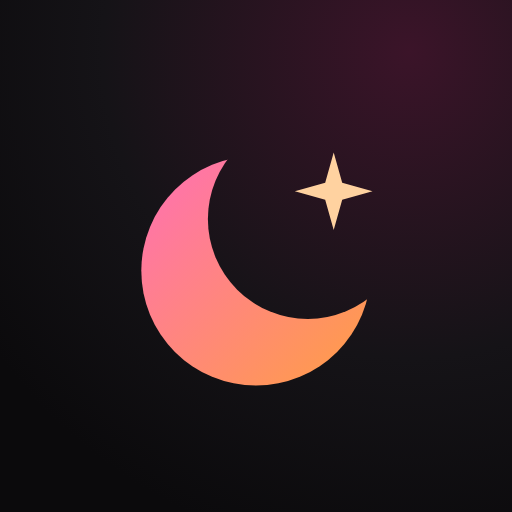
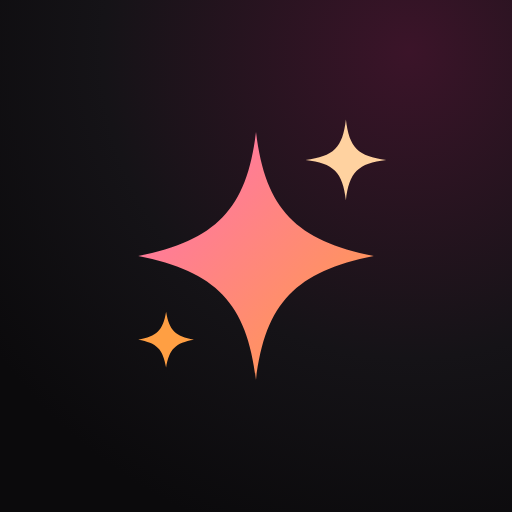
La app pasa a llamarse Todo en Orden con logotipo de destello; sin zoom por doble toque
Claude-Session: https://claude.ai/code/session_01DeS98x6oqMjMK33PFMtxsf

Changed region(s): [[0.25, 0.2812, 0.7188, 0.75], [0.5938, 0.25, 0.75, 0.4375]]

diff --git a/index.html b/index.html
@@ -8,8 +8,8 @@
 <meta name="referrer" content="no-referrer">
 <meta name="apple-mobile-web-app-capable" content="yes">
 <meta name="mobile-web-app-capable" content="yes">
-<meta name="apple-mobile-web-app-title" content="Mi Espacio">
-<title>Mi Espacio</title>
+<meta name="apple-mobile-web-app-title" content="Todo en Orden">
+<title>Todo en Orden</title>
 <link rel="manifest" href="manifest.json">
 <link rel="icon" href="icon.svg" type="image/svg+xml">
 <link rel="apple-touch-icon" href="icon-180.png">
@@ -77,7 +77,7 @@ body[data-tab="work"]{--sec:var(--s-work);--sec-ink:var(--i-work)}
 body[data-tab="money"]{--sec:var(--s-money);--sec-ink:var(--i-money)}
 body[data-tab="shop"]{--sec:var(--s-shop);--sec-ink:var(--i-shop)}
 *{box-sizing:border-box;-webkit-tap-highlight-color:transparent}
-html{-webkit-text-size-adjust:100%}
+html{touch-action:manipulation;-webkit-text-size-adjust:100%}
 body{margin:0;font-family:var(--f-body);background:var(--bg);color:var(--ink);font-size:16px;line-height:1.5}
 h1,h2,h3{font-family:var(--f-display);font-weight:600;margin:0;line-height:1.15;text-wrap:balance}
 p{margin:0}
@@ -344,8 +344,10 @@ fieldset.f legend{display:block;font-size:.88rem;font-weight:700;color:var(--mut
 #sres{margin-top:6px}
 #lock{position:fixed;inset:0;z-index:200;background:radial-gradient(700px 420px at 50% 0%,color-mix(in srgb,var(--brand) 22%,transparent),transparent 70%),var(--bg);display:grid;place-items:center;padding:24px}
 #lock[hidden]{display:none}
+#lock,#lock *{touch-action:manipulation;-webkit-user-select:none;user-select:none;-webkit-touch-callout:none}
 .lock-in{width:min(100%,320px);display:flex;flex-direction:column;align-items:center;gap:14px;text-align:center}
-.lock-in svg.logo{width:64px;height:64px}
+.lock-in svg.logo{width:72px;height:72px}
+@media (max-width:420px){.brand{font-size:1.3rem;gap:8px}.brand svg.logo{width:30px;height:30px}}
 .lock-in h2{font-size:2rem}
 .lockdots{display:flex;gap:14px;min-height:20px}
 .lockdots i{width:14px;height:14px;border-radius:50%;border:2px solid var(--muted)}
@@ -359,12 +361,11 @@ fieldset.f legend{display:block;font-size:.88rem;font-weight:700;color:var(--mut
 <body>
 <svg width="0" height="0" style="position:absolute" aria-hidden="true" focusable="false"><defs>
 <linearGradient id="lg" x1="0" y1="0" x2="1" y2="1"><stop offset="0" stop-color="#ff6fb5"/><stop offset="1" stop-color="#ff9f43"/></linearGradient>
-<mask id="lm"><rect width="100" height="100" fill="#fff"/><circle cx="64" cy="40" r="27" fill="#000"/></mask>
-<symbol id="logo" viewBox="0 0 100 100"><circle cx="50" cy="54" r="31" fill="url(#lg)" mask="url(#lm)"/><path d="M71 22l2.3 8.2 8.2 2.3-8.2 2.3L71 43l-2.3-8.2-8.2-2.3 8.2-2.3z" fill="#ffd2a0"/></symbol>
+<symbol id="logo" viewBox="0 0 100 100"><path d="M50 12C53 37 63 47 88 52 63 57 53 67 50 92 47 67 37 57 12 52 37 47 47 37 50 12Z" fill="url(#lg)"/><path d="M79 8C80 17 83 20 92 21 83 22 80 25 79 34 78 25 75 22 66 21 75 20 78 17 79 8Z" fill="#ffd2a0"/><path d="M21 70C22 76 24 78 30 79 24 80 22 82 21 88 20 82 18 80 12 79 18 78 20 76 21 70Z" fill="#ff9f43"/></symbol>
 </defs></svg>
 <a class="skip" href="#main">Saltar al contenido</a>
 <aside class="side" aria-label="Menú principal">
-  <div class="brand"><svg class="logo" aria-hidden="true"><use href="#logo"/></svg>Mi Espacio</div>
+  <div class="brand"><svg class="logo" aria-hidden="true"><use href="#logo"/></svg>Todo en Orden</div>
   <nav id="sidenav" aria-label="Secciones"></nav>
   <div class="foot">
     <button class="syncbtn" data-act="sync" type="button"></button>
@@ -374,7 +375,7 @@ fieldset.f legend{display:block;font-size:.88rem;font-weight:700;color:var(--mut
 </aside>
 <div>
   <header class="bar">
-    <div class="brand"><svg class="logo" aria-hidden="true"><use href="#logo"/></svg>Mi Espacio</div>
+    <div class="brand"><svg class="logo" aria-hidden="true"><use href="#logo"/></svg>Todo en Orden</div>
     <div class="actions" style="flex-wrap:nowrap">
       <button class="syncbtn" data-act="sync" type="button"></button>
       <button class="iconbtn" data-act="search" type="button" aria-label="Buscar" id="srch2"></button>
@@ -386,7 +387,7 @@ fieldset.f legend{display:block;font-size:.88rem;font-weight:700;color:var(--mut
 <nav class="tabs" id="tabs" aria-label="Secciones"></nav>
 <div id="sheet"></div>
 <div id="lock" hidden role="dialog" aria-modal="true" aria-labelledby="lockT">
-  <div class="lock-in"><svg class="logo big" aria-hidden="true"><use href="#logo"/></svg><h2 id="lockT">Mi Espacio</h2><p class="note" id="lockMsg">Escribe tu PIN</p><div id="lockDots" class="lockdots" aria-hidden="true"></div>
+  <div class="lock-in"><svg class="logo big" aria-hidden="true"><use href="#logo"/></svg><h2 id="lockT">Todo en Orden</h2><p class="note" id="lockMsg">Escribe tu PIN</p><div id="lockDots" class="lockdots" aria-hidden="true"></div>
   <div class="keypad" id="keypad"><button type="button" data-k="1">1</button><button type="button" data-k="2">2</button><button type="button" data-k="3">3</button><button type="button" data-k="4">4</button><button type="button" data-k="5">5</button><button type="button" data-k="6">6</button><button type="button" data-k="7">7</button><button type="button" data-k="8">8</button><button type="button" data-k="9">9</button><span></span><button type="button" data-k="0">0</button><button type="button" data-k="del" aria-label="Borrar">⌫</button></div>
   <button class="link" type="button" data-act="pin-forgot">Olvidé mi PIN</button></div>
 </div>
@@ -1244,7 +1245,7 @@ function postSheet(id,date){
       upsert(S.posts,{...v,id:p?p.id:uid(),imgs})},
     onDelete:p?()=>{(p.imgs||[]).forEach(delImg);remove(S.posts,p.id)}:null});
 }
-const APP_V='2026-10-08.9 tipos de ingreso';
+const APP_V='2026-10-08.10 Todo en Orden';
 function settingsSheet(){
   sheet({title:'Ajustes',pre:`<p class="note" style="margin-bottom:14px">Versión de la app: ${APP_V}</p>`,data:{...S.set,theme:localStorage.getItem('miespacio.theme')||'dark',every:String(SY.every===undefined?60:SY.every)},
     fields:[{k:'name',l:'Tu nombre',ph:'Para saludarte'},{k:'budget',l:'Presupuesto mensual de gastos',t:'number',ph:'0.00'},
@@ -1264,7 +1265,7 @@ function applyTheme(th){
 try{const th=localStorage.getItem('miespacio.theme');document.documentElement.setAttribute('data-theme',['light','dark','auto'].includes(th)?th:'dark')}catch(e){document.documentElement.setAttribute('data-theme','dark')}
 function exportData(){
   const b=new Blob([JSON.stringify({...S,_imgs:IMG})],{type:'application/json'}),a=document.createElement('a');
-  a.href=URL.createObjectURL(b);a.download=`mi-espacio-${today()}.json`;a.click();setTimeout(()=>URL.revokeObjectURL(a.href),2000);toast('Respaldo descargado');
+  a.href=URL.createObjectURL(b);a.download=`todo-en-orden-${today()}.json`;a.click();setTimeout(()=>URL.revokeObjectURL(a.href),2000);toast('Respaldo descargado');
 }
 $('#file').onchange=e=>{
   const f=e.target.files[0];if(!f)return;
@@ -1350,7 +1351,7 @@ async function sync(manual){
       const body=JSON.stringify({v:2,events:S.events,tx:S.tx,shop:S.shop,clients:S.clients,tasks:S.tasks,ideas:S.ideas,posts:S.posts,goals:S.goals,set:{name:S.set.name,budget:S.set.budget,gross:S.set.gross,alertPct:S.set.alertPct,leadDays:S.set.leadDays,u:S.set.u},del:S.del},null,1);
       const h=hs(body);
       if(sha&&SY.sha===sha&&SY.h===h){SY.err='';break}
-      const pr=await fetchT(ghUrl(),{method:'PUT',headers:ghHead(),body:JSON.stringify({message:'sync: datos de Mi Espacio',content:b64(body),branch:br,...(sha?{sha}:{})})});
+      const pr=await fetchT(ghUrl(),{method:'PUT',headers:ghHead(),body:JSON.stringify({message:'sync: datos de Todo en Orden',content:b64(body),branch:br,...(sha?{sha}:{})})});
       if(pr.status===200||pr.status===201){const j=await pr.json();SY.sha=j.content.sha;SY.h=h;SY.err='';break}
       if((pr.status===409||pr.status===422)&&tries===0)continue;
       throw new Error(pr.status===404?'No encuentro el repositorio o la rama':pr.status===403?'El token no tiene permiso de escritura':`No se pudo guardar (${pr.status})`);
@@ -1384,7 +1385,7 @@ function notifyOnce(){
     if(!('Notification' in window)||Notification.permission!=='granted'||localStorage.getItem('miespacio.notif')===today())return;
     const A=alerts().filter(a=>a.lvl>=1);if(!A.length)return;
     localStorage.setItem('miespacio.notif',today());
-    navigator.serviceWorker.ready.then(r=>r.showNotification('Mi Espacio',{body:A.slice(0,4).map(a=>a.tx).join('\n'),icon:'icon-192.png'}));
+    navigator.serviceWorker.ready.then(r=>r.showNotification('Todo en Orden',{body:A.slice(0,4).map(a=>a.tx).join('\n'),icon:'icon-192.png'}));
   }catch(e){}
 }
 

diff --git a/sw.js b/sw.js
@@ -1,4 +1,4 @@
-const V='mi-espacio-v14';
+const V='mi-espacio-v15';
 const SHELL=['./','index.html','manifest.json','icon.svg','icon-180.png','icon-192.png','icon-512.png'];
 self.addEventListener('install',e=>{e.waitUntil(caches.open(V).then(c=>c.addAll(SHELL)).then(()=>self.skipWaiting()))});
 self.addEventListener('activate',e=>{e.waitUntil(caches.keys().then(k=>Promise.all(k.filter(x=>x!==V).map(x=>caches.delete(x)))).then(()=>self.clients.claim()))});

diff --git a/CLAUDE.md b/CLAUDE.md
@@ -1,4 +1,6 @@
-# Mi Espacio: notas para continuar el trabajo en otro chat
+# Todo en Orden (antes «Mi Espacio»): notas para continuar el trabajo en otro chat
+
+El nombre de la app es **Todo en Orden** y su logotipo es un **destello** (estrella de cuatro puntas con degradado rosa a anaranjado). El repositorio se sigue llamando `mi-espacio` y las claves guardadas en el aparato (`miespacio.*`) no cambian, para no perder datos.
 
 App personal (PWA) de **agenda, trabajo con clientes, finanzas, súper y metas de ahorro**. La usa una persona que **no programa**: explica todo en español sencillo, sin jerga, y avisa qué tiene que hacer ella.
 

diff --git a/README.md b/README.md
@@ -1,4 +1,4 @@
-# Mi Espacio 🌸
+# Todo en Orden ✦
 
 App personal (PWA) de agenda, finanzas, súper, clientes, feed de contenido e ideas.
 
